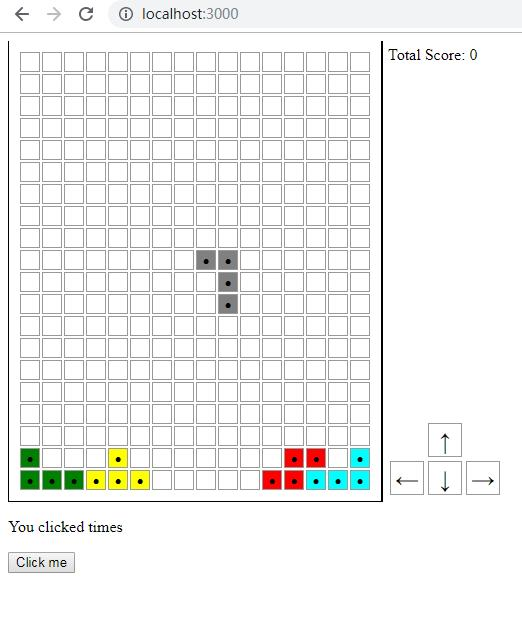
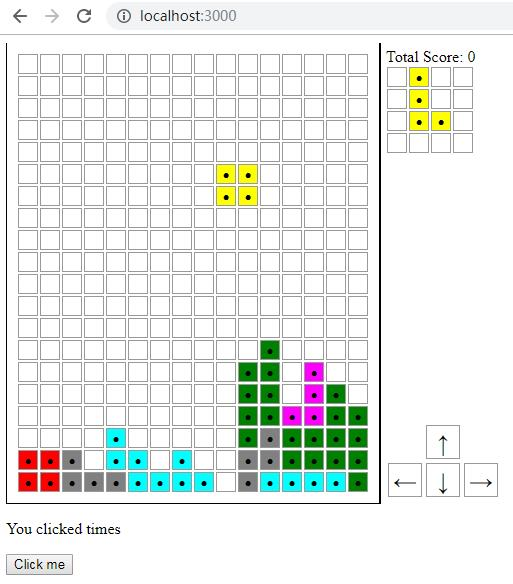
add next block info

Changed region(s): [[0.0, 0.0, 1.0, 0.9247], [0.0, 0.9555, 0.1559, 0.9863]]

diff --git a/react/src/index.js b/react/src/index.js
@@ -5,6 +5,7 @@ import './index.css';
 var gameConfig = { width: 16, height: 20, totalBlocks: (16 * 20), waitMilliSeconds: 1000, currentScore: 0 };
 var gameBlocks = Array(gameConfig.totalBlocks).fill(0).map(x => ({ value: null, color: 0, type: 0 }));
 var gameGlobal = {
+    nextBlock: null,
     currentBlock: null,
     currentBlocks: null,
     gamePanel: React.createRef(),
@@ -20,12 +21,21 @@ var gameGlobal = {
     pauseTimer: function () { this.timer.current.cancelTimer(); },
     resumeTimer: function () { this.timer.current.startTimer(); },
     newBlock: function () {
+        if (this.nextBlock == null ) {
+            this.nextBlock = {
+                x: gameConfig.width / 2,
+                y: 0,
+                block: new Block({ type: this.random(0, 6), rotation: this.random(0, 3), color: this.random(1, 6) })
+            };
+        }
         let newBlock = {
             x: gameConfig.width / 2,
             y: 0,
             block: new Block({ type: this.random(0, 6), rotation: this.random(0, 3), color: this.random(1, 6) })
         };
-        this.setGamePanelState(newBlock);
+        let currentBlock = this.nextBlock;
+        this.nextBlock = newBlock;
+        this.setGamePanelState(currentBlock);
         return newBlock;
     },
     random(start, end) {
@@ -227,7 +237,42 @@ const GameContent = (props) => {
     );
 }
 
-const GameInfo = () => <div>Total Score: {gameConfig.currentScore}</div>;
+const GameNextBlock = (props) => {
+    let blocks = Array(16).fill(0).map(x => ({ value: null, color: 0, type: 0 }));
+    if (gameGlobal.nextBlock.block) {
+        let [nextBlock, color] = gameGlobal.nextBlock.block.getInstance();
+        for (var i = 0; i < 4; i++) {
+            let index = (nextBlock[i][1]) * 4 + nextBlock[i][0];
+            blocks[index].color = color;
+            blocks[index].value = "●";
+        }
+    }
+    blocks = blocks.map((currentValue, index, arr) => {
+        return (
+            <GameSquare
+                key={index}
+                value={currentValue}
+            />
+        )
+    });
+
+    let lines = new Array(16).fill(null);
+    for (let i = 0; i < lines.length; i++) {
+        let index = i * 4;
+        lines[i] = (
+            <div key={i} className="board-row">
+                {blocks.slice(index, index + 4)}
+            </div>
+        )
+    }
+
+    return (
+        <div>
+            {lines}
+        </div>
+    );
+}
+const GameInfo = () => <div>Total Score: {gameConfig.currentScore}<br/><GameNextBlock /></div>;
 
 class GameControl extends React.Component {
     constructor(props) {
